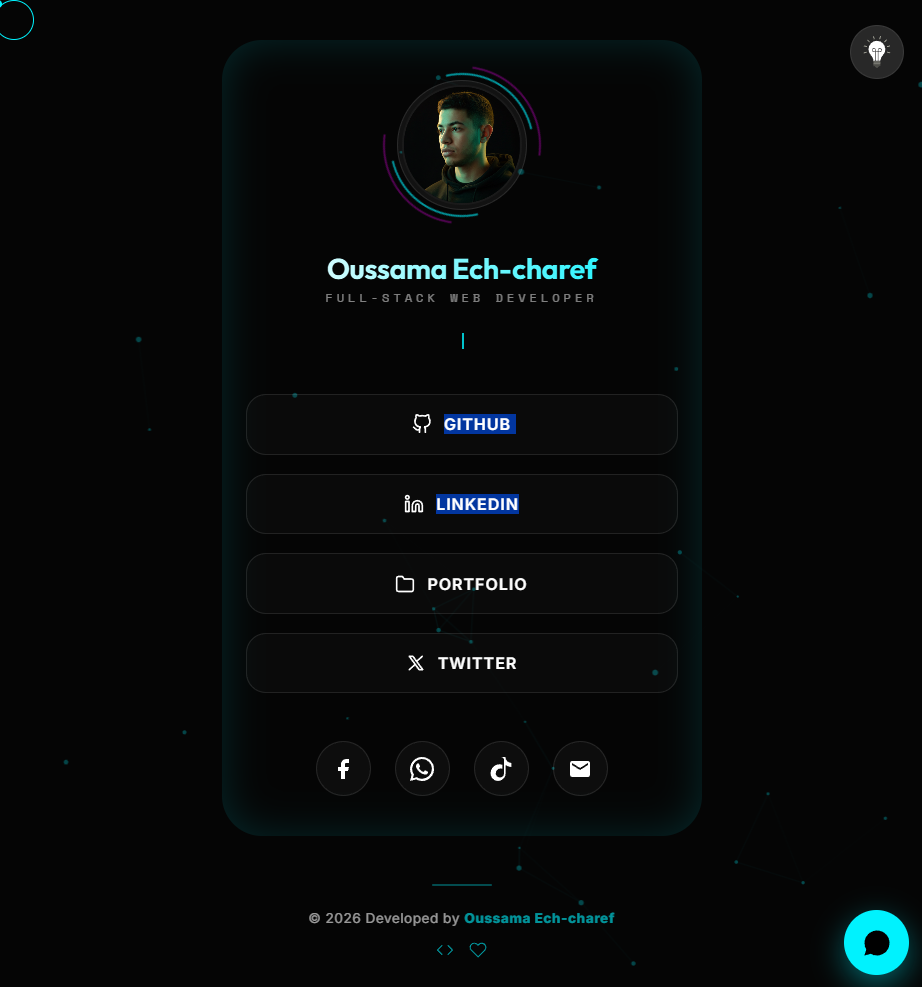
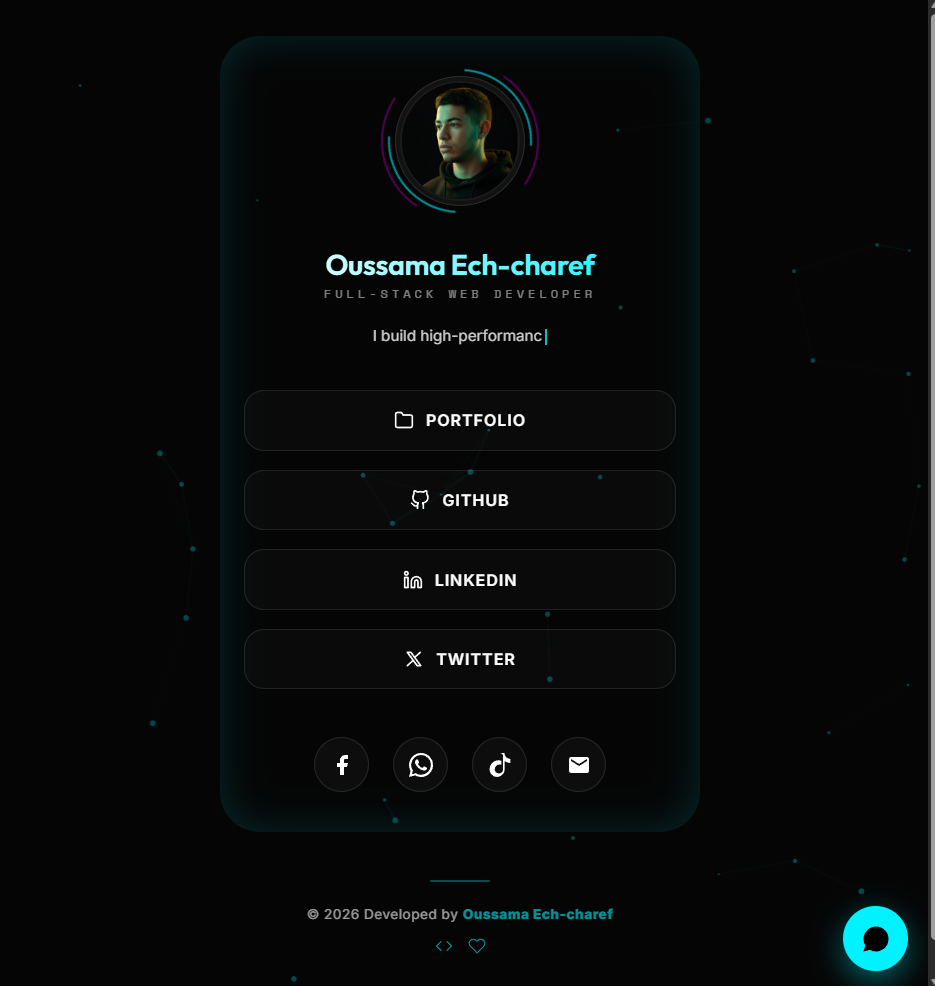
add modification

diff --git a/index.html b/index.html
@@ -15,6 +15,8 @@
         href="https://fonts.googleapis.com/css2?family=Inter:wght@300;400;600;800&family=Outfit:wght@300;400;700&family=Space+Mono&display=swap"
         rel="stylesheet">
 
+    <link rel="icon" href="oussama_avatar.png">
+
     <style>
         :root {
             --bg: #050505;
@@ -30,14 +32,6 @@
             --transition: cubic-bezier(0.23, 1, 0.32, 1);
         }
 
-        [data-theme="light"] {
-            --bg: #f5f5f7;
-            --text: #1d1d1f;
-            --accent: #0071e3;
-            --accent-rgb: 0, 113, 227;
-            --glass: rgba(0, 0, 0, 0.03);
-            --glass-border: rgba(0, 0, 0, 0.1);
-        }
 
         * {
             margin: 0;
@@ -686,54 +680,6 @@
             transform: scale(1.02);
         }
 
-        /* --- 10. ELITE LIGHTBULB SWITCH (pandey_saurav_) --- */
-        #checkbox-input {
-            display: none;
-        }
-
-        .theme-switch-wrapper {
-            position: fixed;
-            top: 25px;
-            right: 25px;
-            z-index: 1000;
-        }
-
-        .switch {
-            width: fit-content;
-            padding: 10px;
-            background-color: rgba(46, 46, 46, 0.85);
-            backdrop-filter: blur(12px);
-            border-radius: 50px;
-            z-index: 1;
-            cursor: pointer;
-            display: flex;
-            transition: all 0.7s cubic-bezier(0.23, 1, 0.32, 1);
-            border: 1px solid rgba(255, 255, 255, 0.08);
-        }
-
-        #checkbox-input:checked+.switch {
-            background-color: rgb(150, 85, 0);
-            box-shadow: 0px 0px 80px rgb(255, 196, 0);
-            border-color: rgba(255, 200, 0, 0.4);
-        }
-
-        .switch svg {
-            height: 32px;
-            width: auto;
-            transition: all 0.7s;
-        }
-
-        #checkbox-input:checked+.switch svg {
-            filter: drop-shadow(0 0 8px #ffe066);
-        }
-
-        .switch svg path:last-child {
-            transition: fill 0.7s;
-        }
-
-        #checkbox-input:checked+.switch svg path:last-child {
-            fill: #ffdd00 !important;
-        }
 
         /* --- 11. PREMIUM FOOTER --- */
         .main-footer {
@@ -799,7 +745,11 @@
 
         /* --- RESPONSIVE ADJUSTMENTS --- */
         @media (max-width: 1024px) {
-            cursor: auto !important;
+
+            html,
+            body {
+                cursor: auto !important;
+            }
 
             #cursor-dot,
             #cursor-ring {
@@ -827,10 +777,6 @@
                 right: 20px;
             }
 
-            #theme-switcher {
-                top: 20px;
-                right: 20px;
-            }
         }
 
         @media (prefers-reduced-motion: reduce) {
@@ -850,7 +796,7 @@
 
     <!-- Cinematic Loader -->
     <div id="loader">
-        <div class="loader-logo" style="letter-spacing: 1.2rem;">ARCHITECT</div>
+        <div class="loader-logo" style="letter-spacing: 1.2rem;">RENDERING</div>
         <div class="loader-bar-container">
             <div class="loader-bar"></div>
         </div>
@@ -863,25 +809,6 @@
     <!-- Custom Cursor -->
     <div id="cursor-dot"></div>
     <div id="cursor-ring"></div>
-
-    <!-- Theme Switcher -->
-    <div class="theme-switch-wrapper">
-        <input id="checkbox-input" type="checkbox">
-        <label class="switch" for="checkbox-input">
-            <svg xml:space="preserve" style="enable-background:new 0 0 128 128" viewBox="0 0 128 128"
-                xmlns="http://www.w3.org/2000/svg">
-                <path
-                    d="M77.547 120.684h-5.765l-1.698 3.012a7.477 7.477 0 0 1-6.513 3.804h-.003a7.479 7.479 0 0 1-6.513-3.804l-1.698-3.012h-5.765v-4.06h27.956v4.06z"
-                    style="fill:#51514c"></path>
-                <path
-                    d="M77.547 113.65H49.591v-4.279h27.956v4.279zm0-11.711H49.591v4.279h27.956v-4.279zm38.587-32.576-12.209-3.271.92-3.434 12.209 3.271-.92 3.434zm-104.268 0-.92-3.434 12.209-3.271.92 3.434-12.209 3.271zm92.979-24.913-.92-3.434 12.209-3.272.92 3.434-12.209 3.272zm-81.69 0-12.209-3.272.92-3.434 12.209 3.272-.92 3.434zM94.82 25.247l-2.514-2.514 8.938-8.938 2.514 2.514-8.938 8.938zm-61.64 0-8.937-8.938 2.514-2.514 8.937 8.938-2.514 2.514zm43.358-11.618-3.434-.92L76.376.5l3.434.92-3.272 12.209zm-25.076 0L48.191 1.42 51.625.5l3.272 12.209-3.435.92z"
-                    style="fill:#a7a79b"></path>
-                <path
-                    d="M59.802 64.141h7.535v34.934h-7.535V64.141zm3.767-44.754c-18.485-.53-33.631 14.817-33.631 33.824 0 9.781 4.016 18.581 10.431 24.753 5.637 5.423 9.222 13.147 9.222 21.111h7.84V64.141H51.75c-4.44 0-8.051-3.612-8.051-8.051s3.612-8.051 8.051-8.051 8.052 3.612 8.052 8.051v5.681h7.535V56.09c0-4.44 3.612-8.051 8.052-8.051 4.44 0 8.051 3.612 8.051 8.051s-3.612 8.051-8.051 8.051h-5.682v34.934h7.84c0-7.964 3.584-15.688 9.222-21.111C93.184 71.792 97.2 62.992 97.2 53.211c0-19.008-15.146-34.355-33.631-33.824zM51.75 50.408a5.687 5.687 0 0 0-5.681 5.681 5.687 5.687 0 0 0 5.681 5.681h5.682v-5.681a5.688 5.688 0 0 0-5.682-5.681zM75.389 61.77h-5.682v-5.681a5.688 5.688 0 0 1 5.682-5.681 5.687 5.687 0 0 1 5.681 5.681 5.687 5.687 0 0 1-5.681 5.681z"
-                    style="fill:#ffffff"></path>
-            </svg>
-        </label>
-    </div>
 
     <!-- Main Container -->
     <div class="page-wrapper">
@@ -907,6 +834,18 @@
                 <nav>
                     <ul class="links-list">
                         <li>
+                            <a href="https://oussama-ech.infinityfreeapp.com" class="magnetic-btn magnetic"
+                                target="_blank">
+                                <svg viewBox="0 0 24 24" fill="none" stroke="currentColor" stroke-width="2">
+                                    <path
+                                        d="M22 19a2 2 0 0 1-2 2H4a2 2 0 0 1-2-2V5a2 2 0 0 1 2-2h5l2 3h9a2 2 0 0 1 2 2z">
+                                    </path>
+                                </svg>
+                                <span>PORTFOLIO</span>
+                                <div class="btn-glimmer"></div>
+                            </a>
+                        </li>
+                        <li>
                             <a href="https://github.com/Oussama-Ech-charef" class="magnetic-btn magnetic"
                                 target="_blank">
                                 <svg viewBox="0 0 24 24" fill="none" stroke="currentColor" stroke-width="2">
@@ -931,18 +870,7 @@
                                 <div class="btn-glimmer"></div>
                             </a>
                         </li>
-                        <li>
-                            <a href="https://oussama-ech.infinityfreeapp.com" class="magnetic-btn magnetic"
-                                target="_blank">
-                                <svg viewBox="0 0 24 24" fill="none" stroke="currentColor" stroke-width="2">
-                                    <path
-                                        d="M22 19a2 2 0 0 1-2 2H4a2 2 0 0 1-2-2V5a2 2 0 0 1 2-2h5l2 3h9a2 2 0 0 1 2 2z">
-                                    </path>
-                                </svg>
-                                <span>PORTFOLIO</span>
-                                <div class="btn-glimmer"></div>
-                            </a>
-                        </li>
+
                         <li>
                             <a href="https://x.com/HirmanoOusama" class="magnetic-btn magnetic" target="_blank">
                                 <svg viewBox="0 0 24 24" fill="none" stroke="currentColor" stroke-width="2">
@@ -1195,17 +1123,6 @@
         }
         typeLoop();
 
-        const themeToggle = document.getElementById('checkbox-input');
-
-        themeToggle.addEventListener('change', () => {
-            const target = themeToggle.checked ? 'light' : 'dark';
-            document.documentElement.setAttribute('data-theme', target);
-            localStorage.setItem('theme', target);
-        });
-
-        const savedTheme = localStorage.getItem('theme') || 'dark';
-        document.documentElement.setAttribute('data-theme', savedTheme);
-        themeToggle.checked = (savedTheme === 'light');
 
         // --- 7. AI ASSISTANT ---
         const aiToggle = document.getElementById('ai-toggle');
